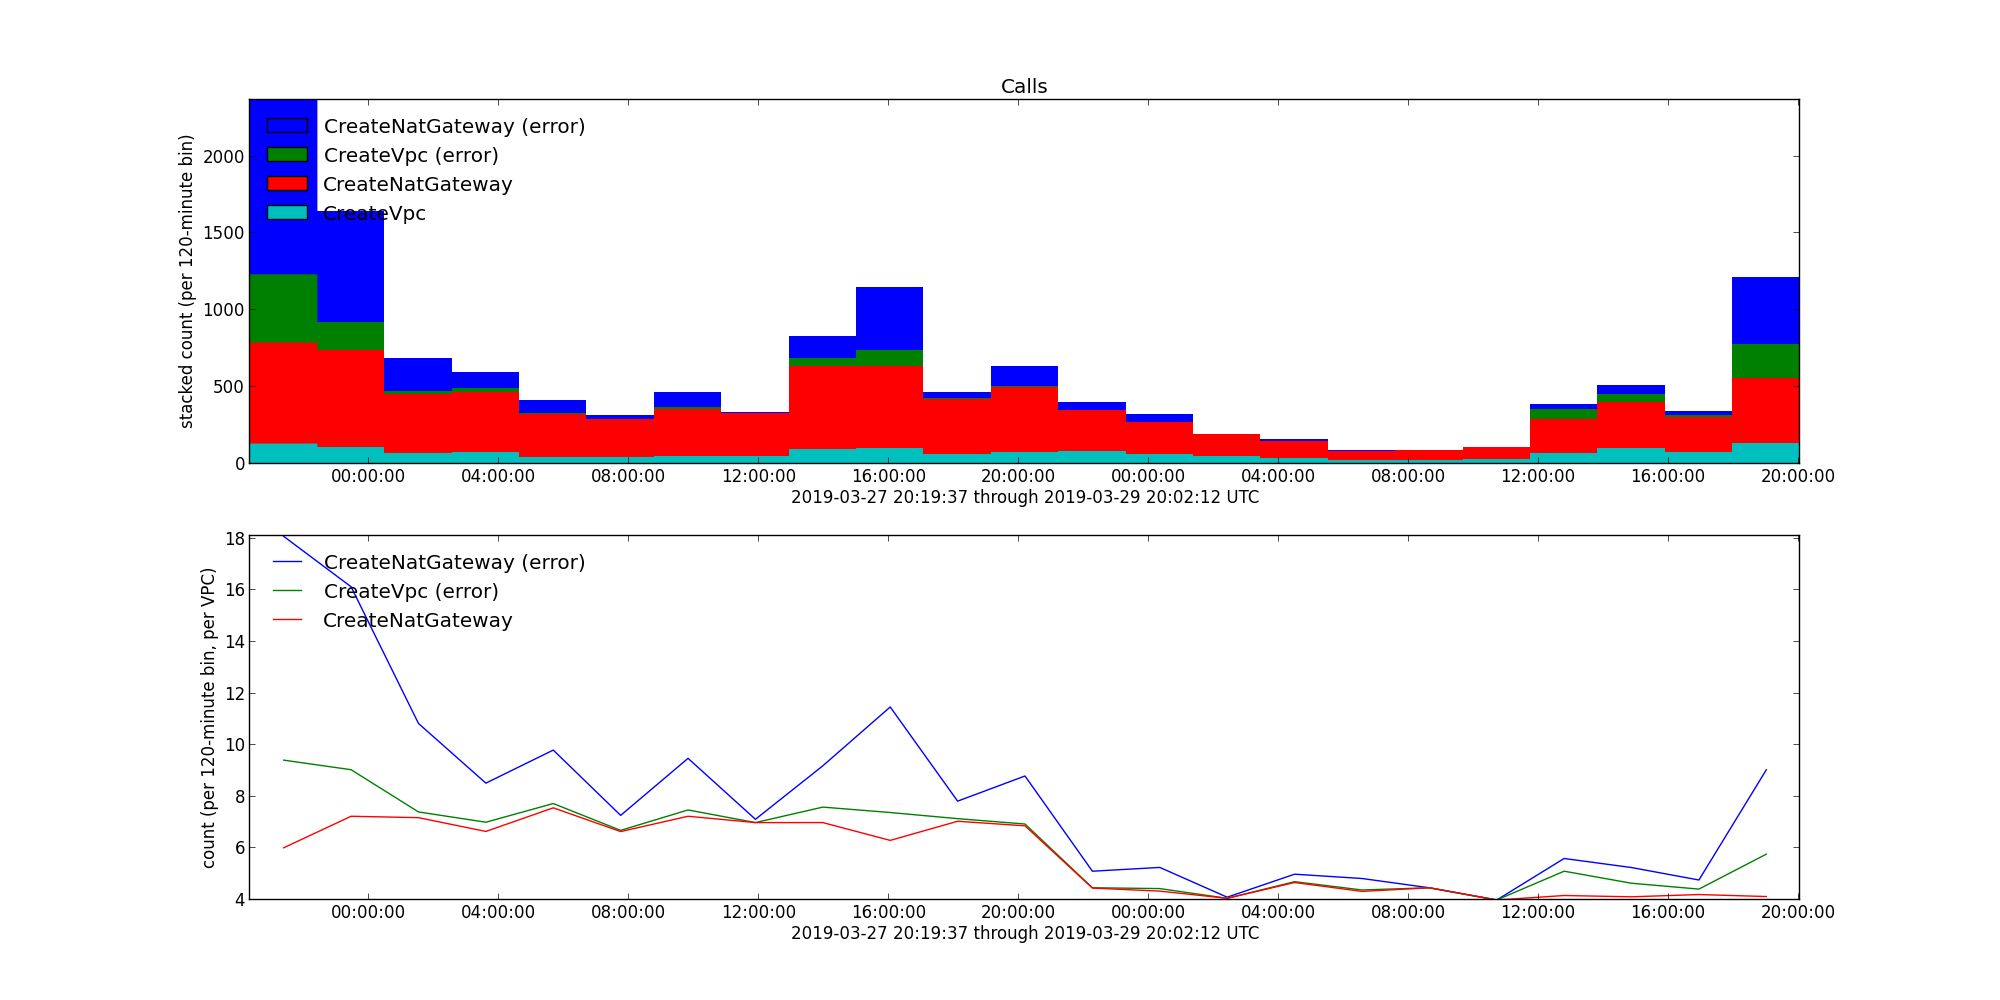
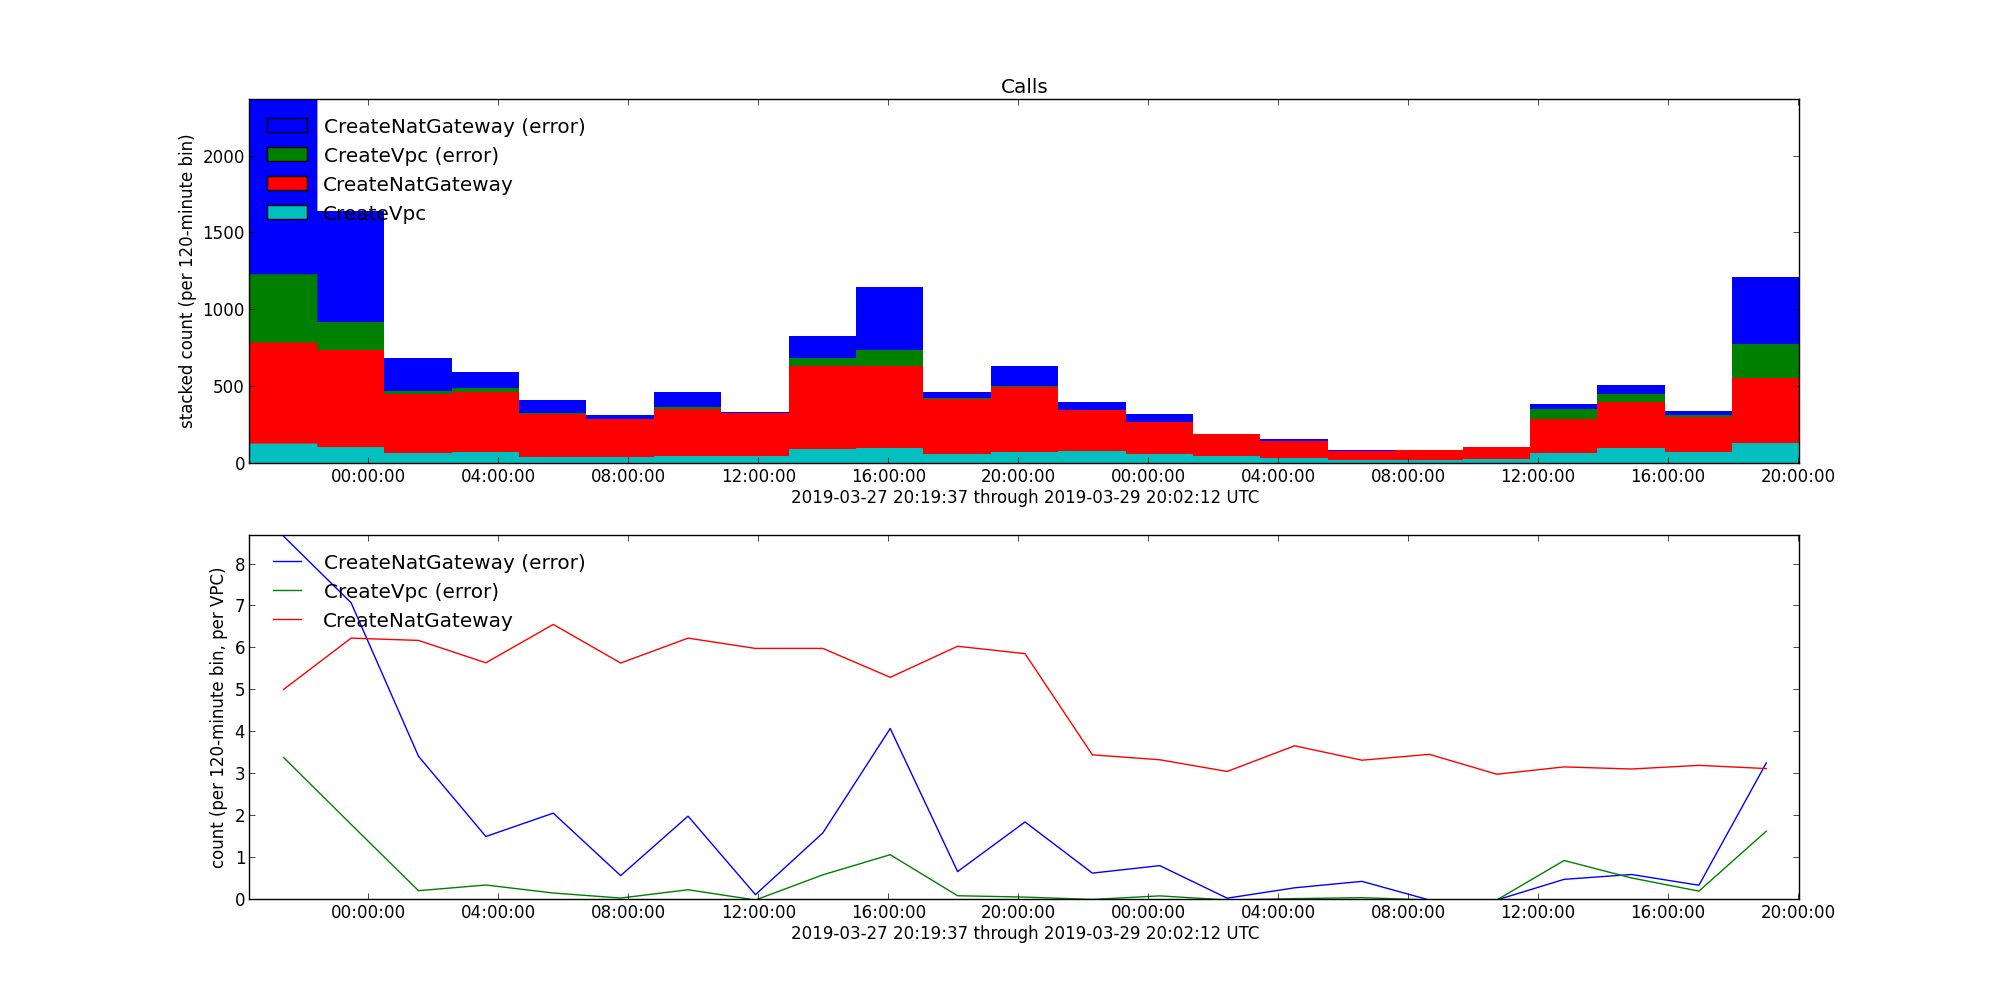
vpcs/calls-per-vpc: Fix calls-per-VPC subplot
The previous approach was confused by the stacked-ness of the n
returned by hist().  This commit still uses the bins from hist(), but
calculates the counts directly to avoid confusion.

I'm using both >= and <= (instead of, say >= and <), because I expect
timestamps to only exactly fall on a bin edge for the first and last
bin.  If that assumption breaks down, it's only going to be an
off-by-one anyway.

diff --git a/vpcs/calls-per-vpc.py b/vpcs/calls-per-vpc.py
@@ -63,7 +63,7 @@ figure = matplotlib.pyplot.figure()
 figure.set_size_inches(20, 10)
 
 axes = figure.add_subplot(2, 1, 1)
-n, bins, _ = axes.hist(data, bins, histtype='barstacked', rwidth=1, edgecolor='none', label=names)
+_, bins, _ = axes.hist(data, bins, histtype='barstacked', rwidth=1, edgecolor='none', label=names)
 axes.set_title('Calls')
 axes.set_xlabel('{} through {} UTC'.format(begin.isoformat(' '), end.isoformat(' ')))
 axes.set_ylabel('stacked count (per {}-minute bin)'.format(bin_minutes))
@@ -72,17 +72,26 @@ axes.xaxis.set_major_locator(locator)
 axes.xaxis.set_major_formatter(matplotlib.dates.AutoDateFormatter(locator))
 axes.axis('tight')
 
-vpc_index = names.index('CreateVpc')
-if vpc_index < 0:
-    raise ValueError(names)
-vpc_counts = n[vpc_index]
+def num2date(num):  # not in my ancient Matplotlib v1.2.0's matplotlib.dates
+    return begin + datetime.timedelta(days=num - bins[0])
+
+bin_centers = [(a + b) / 2 for a, b in zip(bins, bins[1:])]
+counts = collections.defaultdict(list)
+for name in names:
+    for i in range(len(bin_centers)):
+        b = num2date(bins[i])
+        e = num2date(bins[i+1])
+        counts[name].append(len([t for t in requests[name] if t >= b and t <= e]))
+vpc_counts = float(len(requests['CreateVpc']))
+
 xs = []
 ys = []
-for counts, name in zip(n, names):
+for name in names:
+    print('{}\t{:.2f}\t{}'.format(len(requests[name]), len(requests[name]) / vpc_counts, name))
     if name == 'CreateVpc':
         continue
-    xs.append([(a + b) / 2 for a, b in zip(bins, bins[1:])])
-    ys.append([count / (float(vpc_count) or 1) for count, vpc_count in zip(counts, vpc_counts)])
+    xs.append(bin_centers)
+    ys.append([count / float(vpc_count) for count, vpc_count in zip(counts[name], counts['CreateVpc'])])
 
 axes = figure.add_subplot(2, 1, 2)
 for x, y, name in zip(xs, ys, names):
@@ -96,7 +105,3 @@ axes.axis('tight')
 axes.set_xlim(bins[0], bins[-1])
 
 figure.savefig('calls-per-vpc.png')
-
-vpc_count = float(sum(vpc_counts))
-for counts, name in zip(n, names):
-    print('{}\t{:.2f}\t{}'.format(sum(counts), sum(counts) / vpc_count, name))

diff --git a/vpcs/README.md b/vpcs/README.md
@@ -53,9 +53,9 @@ eventname IN ('CreateVpc', 'CreateNatGateway')
 
 ```console
 $ calls-per-vpc.py <vpc-and-nat.csv
-13685  9.01   CreateNatGateway (error)
-9886   6.51   CreateVpc (error)
-8664   5.70   CreateNatGateway
+3799   2.50   CreateNatGateway (error)
+1222   0.80   CreateVpc (error)
+7145   4.70   CreateNatGateway
 1519   1.00   CreateVpc
 ```
 
